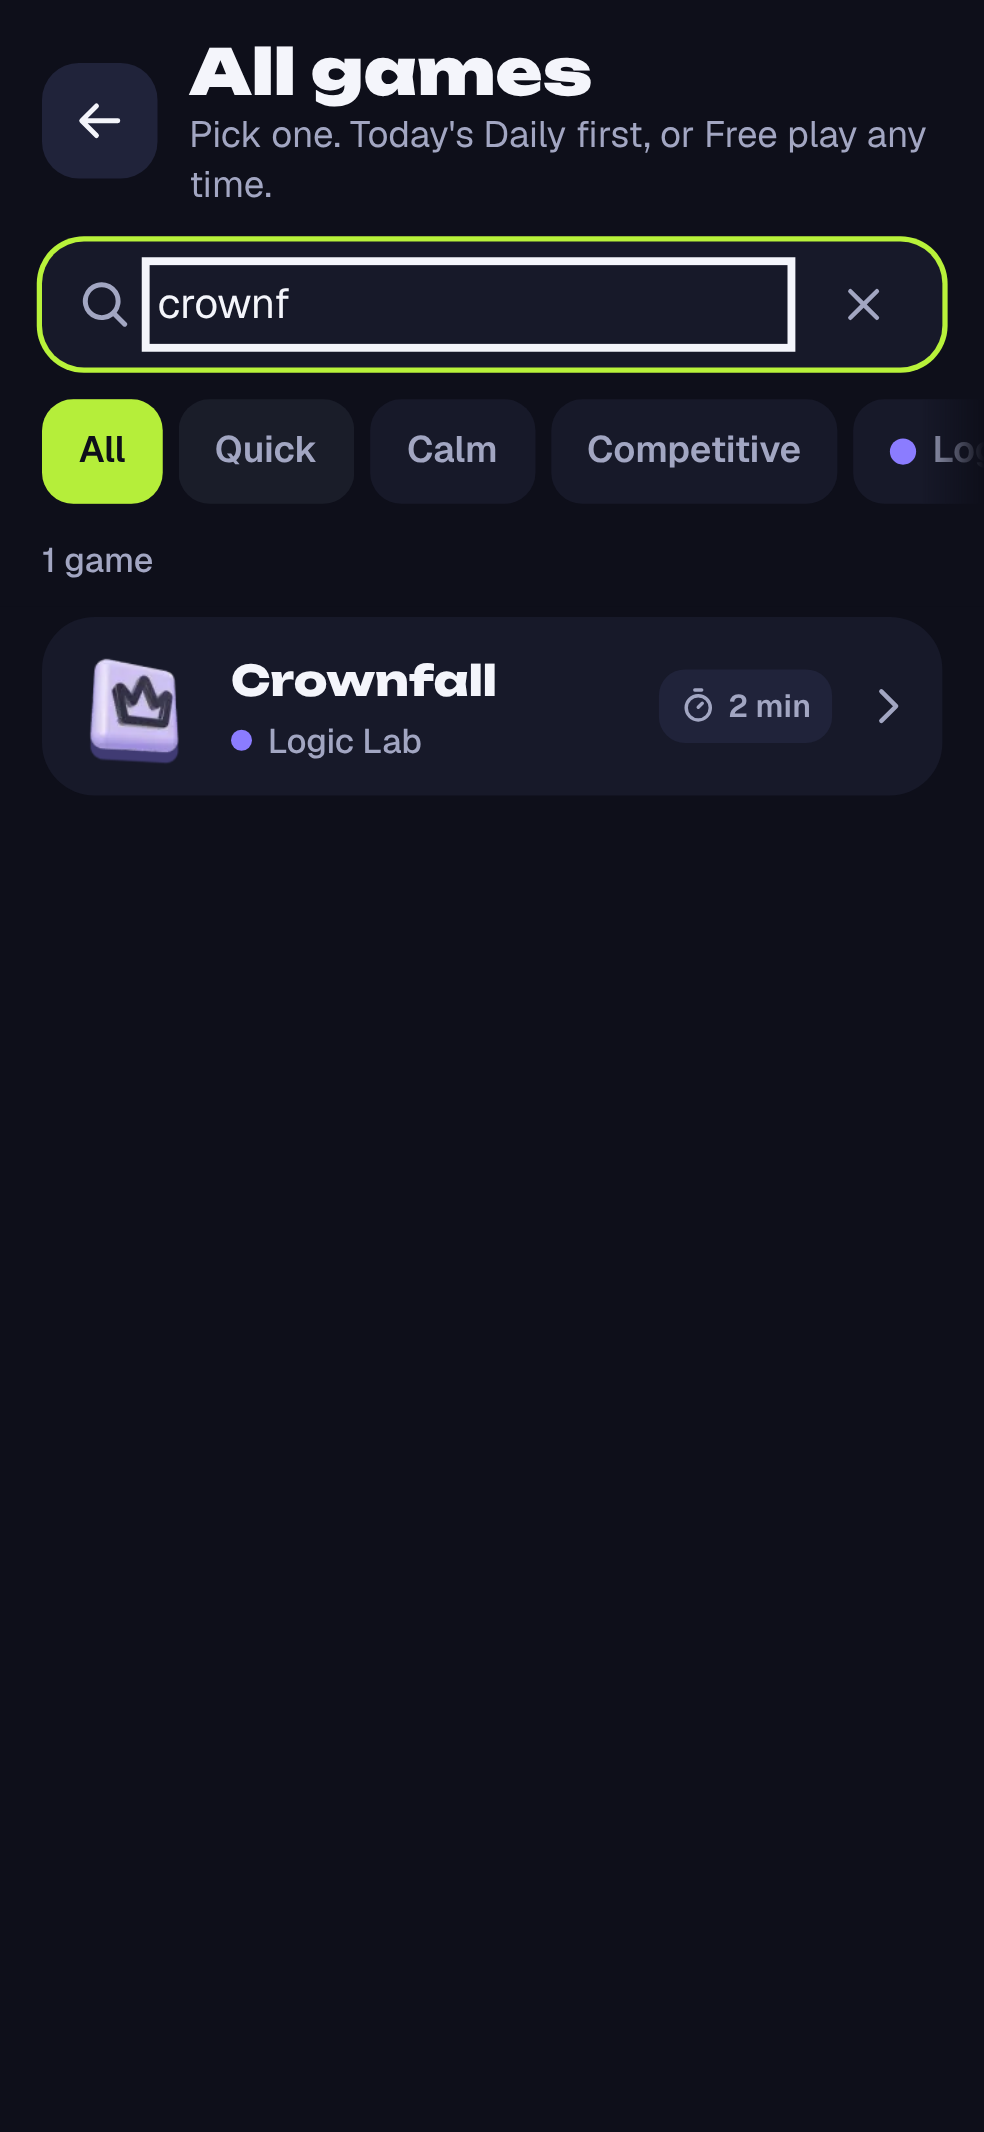
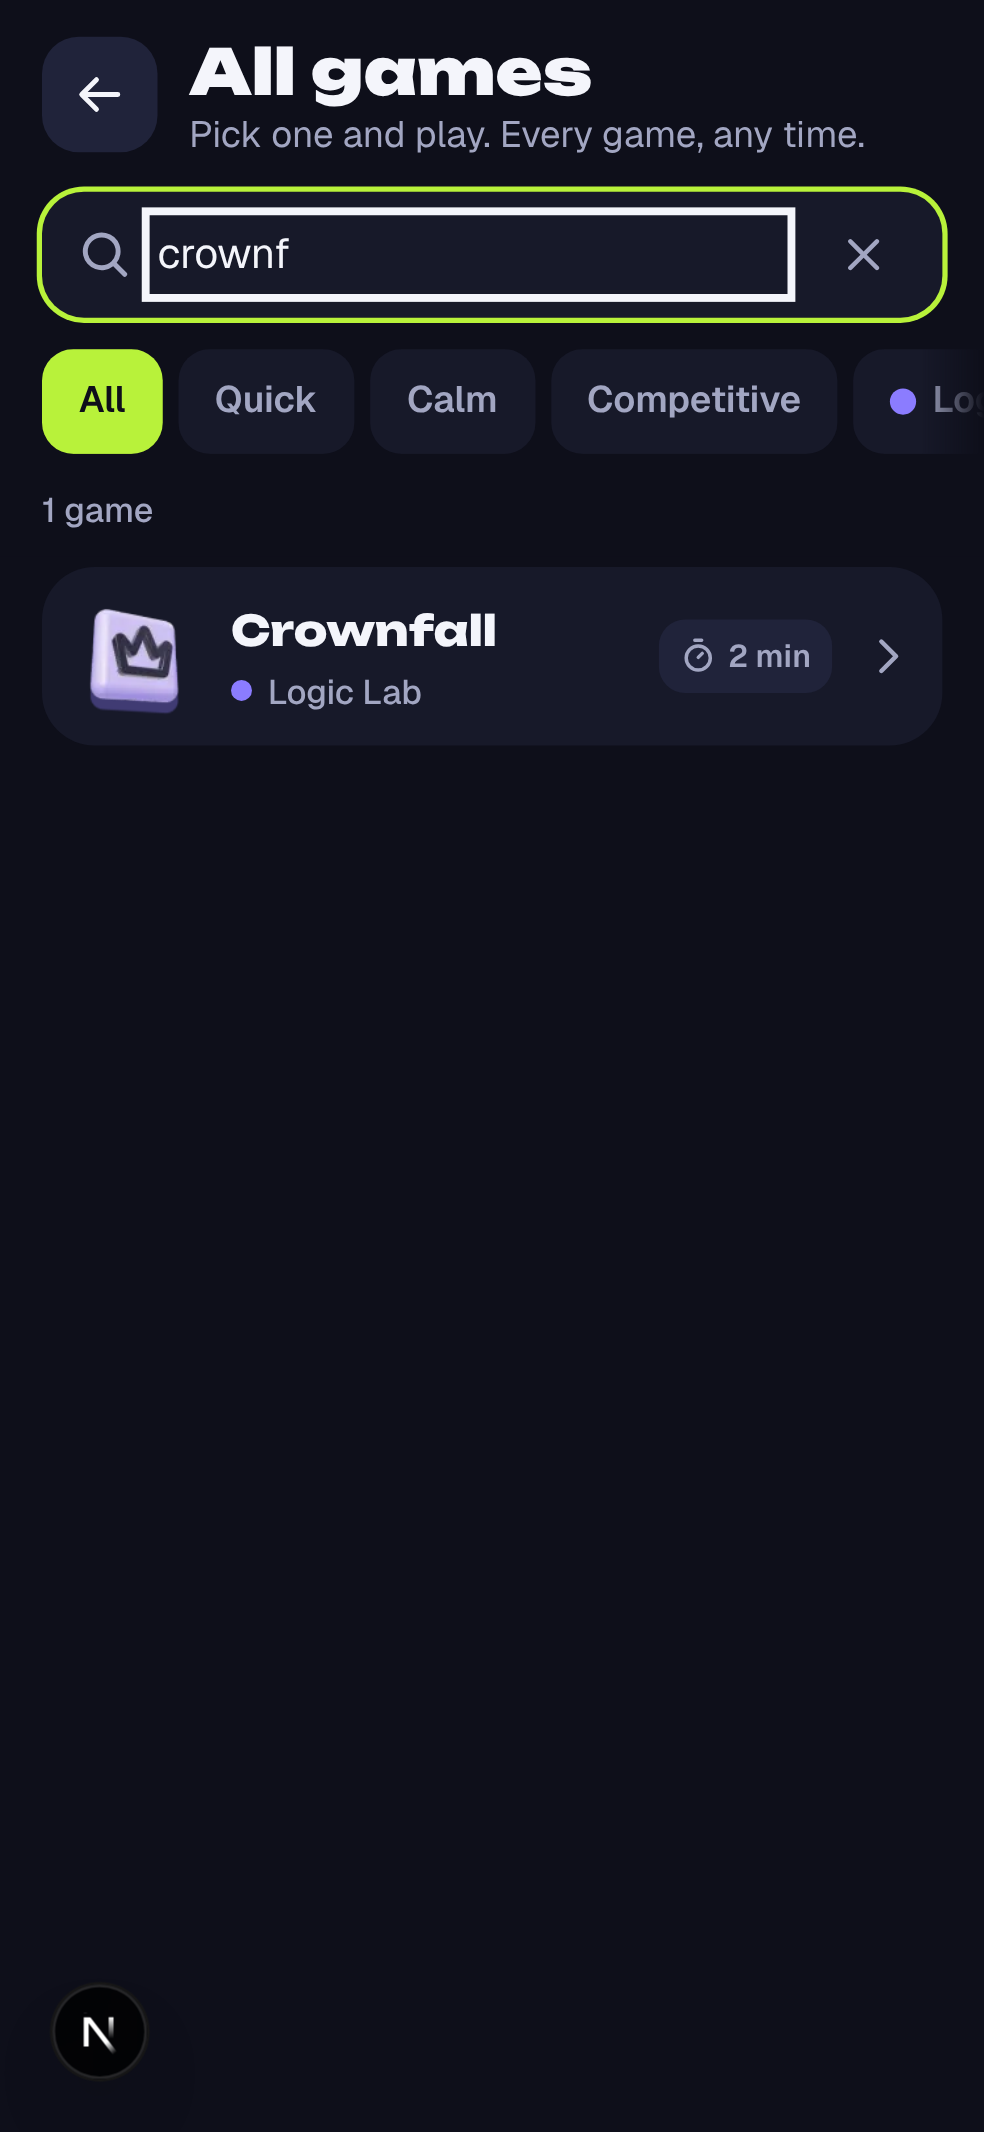
World: each game is one card with its Challenge and vs-bot actions inside; specs follow Dailies off

diff --git a/tests/e2e/world.spec.ts b/tests/e2e/world.spec.ts
@@ -1,0 +1,17 @@
+import { expect, test } from "@playwright/test";
+import { onboardGuest } from "./harness";
+
+/** World screen: one card per game with its Challenge and vs-bot actions inside it; no Daily wording. */
+test("world: each game is one card with its own actions", async ({ page }, info) => {
+  await onboardGuest(page);
+  await page.goto("/world/line");
+  await expect(page.getByText(/of \d+ tried\./)).toBeVisible();
+  await expect(page.getByText(/cleared today|Daily/)).toHaveCount(0);
+  const card = page.locator("main li").first();
+  await expect(card.getByRole("link").first()).toBeVisible();
+  await expect(card.getByRole("group", { name: /More ways to play/ }).getByRole("button", { name: /Challenge/ })).toBeVisible();
+  await page.screenshot({ path: `docs/qa/screens/after/world-line-${info.project.name}.png` });
+  await page.goto("/world/board");
+  await expect(page.locator("main li").first().getByRole("link", { name: "Play vs bot" })).toBeVisible();
+  await page.screenshot({ path: `docs/qa/screens/after/world-board-${info.project.name}.png` });
+});

diff --git a/tests/e2e/home.spec.ts b/tests/e2e/home.spec.ts
@@ -4,7 +4,7 @@ import { onboardGuest } from "./harness";
 /** SPZ-16: one Play card with the Today ring; Duel and Party as small chips; the map keeps 70 % of the screen. */
 test("home: one Play card, chips, and room for the map", async ({ page }, info) => {
   await onboardGuest(page);
-  const card = page.getByRole("link", { name: /^(Play|Continue:) .*Today's Dailies: \d+ of \d+ cleared/ });
+  const card = page.getByRole("link", { name: /^(Play|Continue:) .*(Today's Dailies|Games tried): \d+ of \d+/ });
   await expect(card).toBeVisible();
   await expect(page.getByRole("navigation", { name: "More ways to play" }).getByRole("link")).toHaveCount(3);
   const box = await card.boundingBox();

diff --git a/tests/e2e/onboarding.spec.ts b/tests/e2e/onboarding.spec.ts
@@ -25,6 +25,6 @@ test("onboarding: lesson, merged celebration, named CTA, counted on Home", async
   await page.locator("#nick").fill(`Ob${Date.now() % 1e7}`);
   await page.getByRole("button", { name: "Save my Spuz and open the map" }).click();
   await page.waitForURL((u) => u.pathname === "/", { timeout: 30_000 });
-  await expect(page.getByRole("link", { name: /Today's Dailies: 1 of \d+ cleared/ })).toBeVisible();
+  await expect(page.getByRole("link", { name: /(Today's Dailies|Games tried): 1 of \d+/ })).toBeVisible();
   await expect(page.getByText(/streak is sleepy/)).toHaveCount(0);
 });

diff --git a/components/world/BotEntry.tsx b/components/world/BotEntry.tsx
@@ -13,7 +13,6 @@ export function BotEntry({ meta, inline = false }: { meta: GameMeta; inline?: bo
     return (
       <Link
         href={`/play/${meta.id}/bot`}
-        aria-label={boardGames.bot.entryAria(meta.name)}
         className="press bg-surface-raised flex h-11 items-center gap-1.5 rounded-[12px] px-3 text-[14px] font-semibold"
       >
         <Icon name="robot" size={18} style={{ color: "var(--world)" }} />
